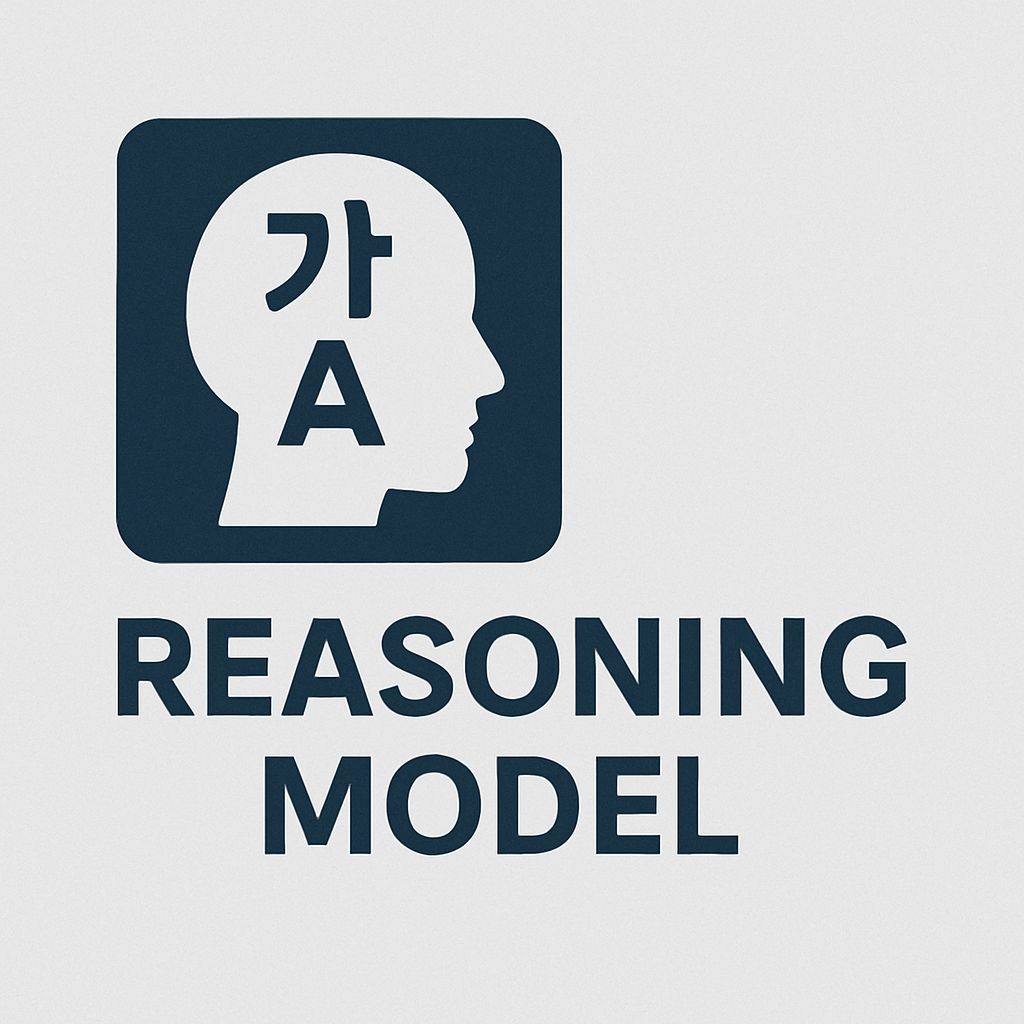
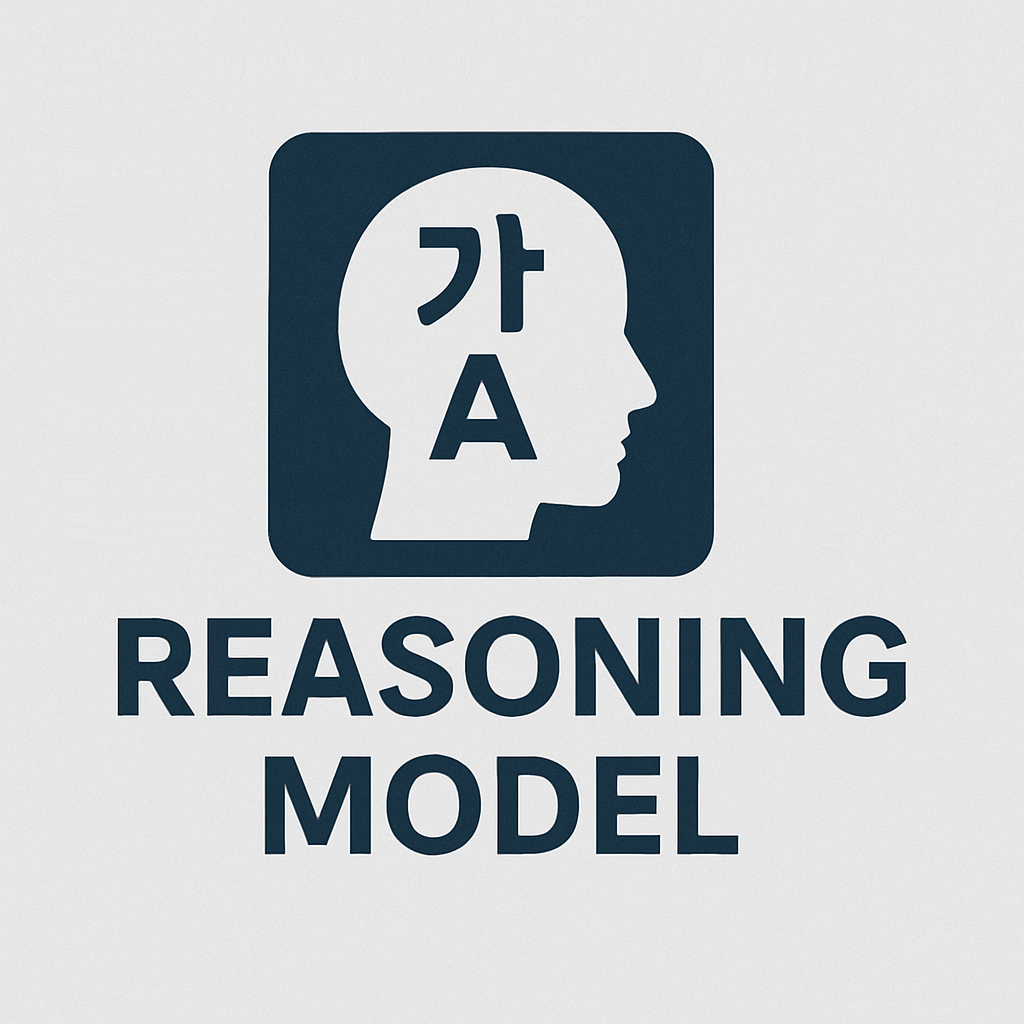
Fix: replace images with gpt generated images

Changed region(s): [[0.0938, 0.0938, 0.7188, 0.5625]]

diff --git a/_projects/2_project.md b/_projects/2_project.md
@@ -2,7 +2,7 @@
 layout: page
 title: Small Langauge Model
 description: Training small language models for on-device deployment.
-img: assets/img/qualcomm.png
+img: assets/img/slm.png
 redirect: https://www.namuhx.com
 importance: 2
 category: work

diff --git a/_projects/3_project.md b/_projects/3_project.md
@@ -1,6 +1,6 @@
 ---
 layout: page
-title: Korean Reasonging Model
+title: Korean Reasoning Model
 description: Training an o1-like large language model capable of reasoning and responding in Korean.
 img: assets/img/reasoning.png
 importance: 2
